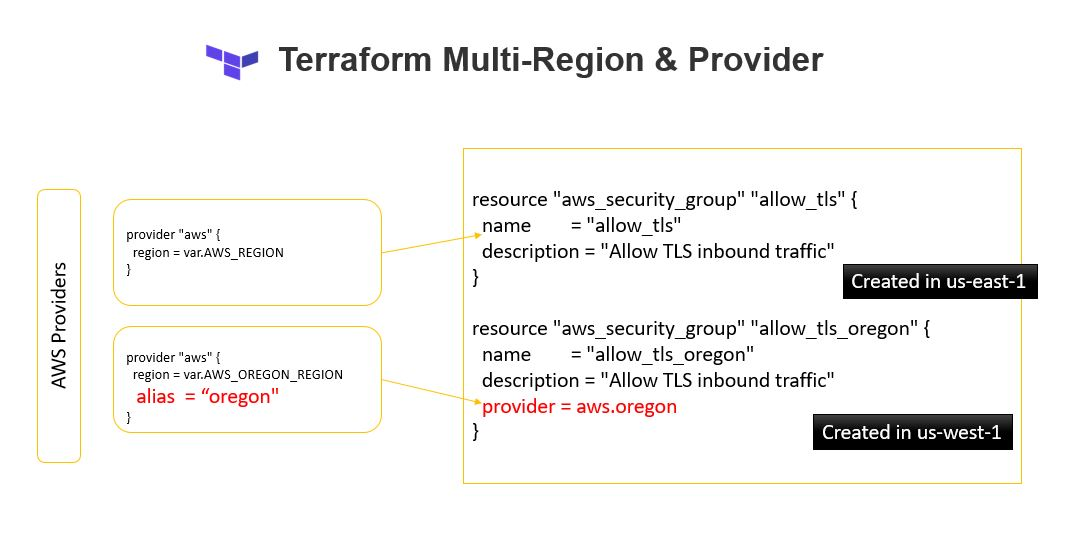
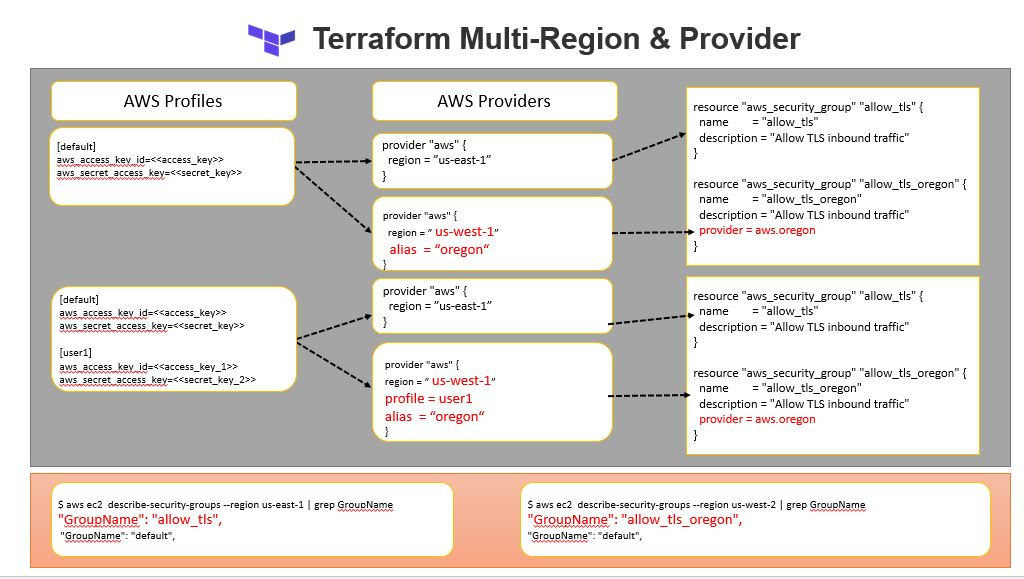
updated multi-region

diff --git a/08-terraform-multi-region-provider/README.md b/08-terraform-multi-region-provider/README.md
@@ -1,1 +1,255 @@
+In this demo we will see how to use multiple aws provider seperated by the regions.  
+
 ![multi-region.JPG](../images/multi-region.JPG)
+
+
+
+this is how provider configuration looks like 
+
+```sh
+    provider "aws" {
+    region = us-east-1
+    }
+
+    provider "aws" {
+    region = us-west-2
+    alias  = "oregon"
+    }
+```
+
+Now we would like to create 2 security groups 
+1. Security Group 1 [allow_tls] in us-east-1
+2. Security Group 2 [allow_tls_oregon] in us-west-2 with **provider = aws.oregon**
+
+```terraform
+
+    resource "aws_security_group" "allow_tls" {
+    name        = "allow_tls"
+    description = "Allow TLS inbound traffic"
+    ingress {
+        description = "TLS from VPC"
+        from_port   = 443
+        to_port     = 443
+        protocol    = "tcp"
+        cidr_blocks = ["0.0.0.0/0"]
+    }
+
+    tags = {
+        Name = "allow_tls"
+    }
+    }
+
+    resource "aws_security_group" "allow_tls_oregon" {
+    name        = "allow_tls_oregon"
+    description = "Allow TLS inbound traffic"
+
+    provider = aws.oregon
+
+    ingress {
+        description = "TLS from VPC"
+        from_port   = 443
+        to_port     = 443
+        protocol    = "tcp"
+        cidr_blocks = ["0.0.0.0/0"]
+    }
+
+    tags = {
+        Name = "allow_tls_oregon"
+    }
+    }
+```
+
+now lets apply this and validate if we have 2 security group created in 2 differnt region.
+
+**terraform plan**
+
+```sh
+
+    $ terraform plan
+
+    An execution plan has been generated and is shown below.
+    Resource actions are indicated with the following symbols:
+    + create
+
+    Terraform will perform the following actions:
+
+    # aws_security_group.allow_tls will be created
+    + resource "aws_security_group" "allow_tls" {
+        + arn                    = (known after apply)
+        + description            = "Allow TLS inbound traffic"
+        + egress                 = (known after apply)
+        + id                     = (known after apply)
+        + ingress                = [
+            + {
+                + cidr_blocks      = [
+                    + "0.0.0.0/0",
+                    ]
+                + description      = "TLS from VPC"
+                + from_port        = 443
+                + ipv6_cidr_blocks = []
+                + prefix_list_ids  = []
+                + protocol         = "tcp"
+                + security_groups  = []
+                + self             = false
+                + to_port          = 443
+                },
+            ]
+        + name                   = "allow_tls"
+        + name_prefix            = (known after apply)
+        + owner_id               = (known after apply)
+        + revoke_rules_on_delete = false
+        + tags                   = {
+            + "Name" = "allow_tls"
+            }
+        + vpc_id                 = (known after apply)
+        }
+
+    # aws_security_group.allow_tls_oregon will be created
+    + resource "aws_security_group" "allow_tls_oregon" {
+        + arn                    = (known after apply)
+        + description            = "Allow TLS inbound traffic"
+        + egress                 = (known after apply)
+        + id                     = (known after apply)
+        + ingress                = [
+            + {
+                + cidr_blocks      = [
+                    + "0.0.0.0/0",
+                    ]
+                + description      = "TLS from VPC"
+                + from_port        = 443
+                + ipv6_cidr_blocks = []
+                + prefix_list_ids  = []
+                + protocol         = "tcp"
+                + security_groups  = []
+                + self             = false
+                + to_port          = 443
+                },
+            ]
+        + name                   = "allow_tls_oregon"
+        + name_prefix            = (known after apply)
+        + owner_id               = (known after apply)
+        + revoke_rules_on_delete = false
+        + tags                   = {
+            + "Name" = "allow_tls_oregon"
+            }
+        + vpc_id                 = (known after apply)
+        }
+
+    Plan: 2 to add, 0 to change, 0 to destroy.
+
+    ------------------------------------------------------------------------
+
+    Note: You didn't specify an "-out" parameter to save this plan, so Terraform
+    can't guarantee that exactly these actions will be performed if
+    "terraform apply" is subsequently run.
+```
+
+
+**terraform apply**
+```sh
+
+    $ terraform apply
+
+    An execution plan has been generated and is shown below.
+    Resource actions are indicated with the following symbols:
+    + create
+
+    Terraform will perform the following actions:
+
+    # aws_security_group.allow_tls will be created
+    + resource "aws_security_group" "allow_tls" {     
+        + arn                    = (known after apply)
+        + description            = "Allow TLS inbound traffic"
+        + egress                 = (known after apply)
+        + id                     = (known after apply)
+        + ingress                = [
+            + {       
+                + cidr_blocks      = [
+                    + "0.0.0.0/0",
+                    ]
+                + description      = "TLS from VPC"
+                + from_port        = 443
+                + ipv6_cidr_blocks = []
+                + prefix_list_ids  = []   
+                + protocol         = "tcp"
+                + security_groups  = []   
+                + self             = false
+                + to_port          = 443  
+                },
+            ]
+        + name                   = "allow_tls"
+        + name_prefix            = (known after apply)
+        + owner_id               = (known after apply)
+        + revoke_rules_on_delete = false
+        + tags                   = {
+            + "Name" = "allow_tls"
+            }
+        + vpc_id                 = (known after apply)
+        }
+
+    # aws_security_group.allow_tls_oregon will be created
+    + resource "aws_security_group" "allow_tls_oregon" {
+        + arn                    = (known after apply)
+        + description            = "Allow TLS inbound traffic"
+        + egress                 = (known after apply)
+        + id                     = (known after apply)
+        + ingress                = [
+            + {
+                + cidr_blocks      = [
+                    + "0.0.0.0/0",
+                    ]
+                + description      = "TLS from VPC"
+                + from_port        = 443
+                + ipv6_cidr_blocks = []
+                + prefix_list_ids  = []
+                + protocol         = "tcp"
+                + security_groups  = []
+                + self             = false
+                + to_port          = 443
+                },
+            ]
+        + name                   = "allow_tls_oregon"
+        + name_prefix            = (known after apply)
+        + owner_id               = (known after apply)
+        + revoke_rules_on_delete = false
+        + tags                   = {
+            + "Name" = "allow_tls_oregon"
+            }
+        + vpc_id                 = (known after apply)
+        }
+
+    Plan: 2 to add, 0 to change, 0 to destroy.
+
+    Do you want to perform these actions?
+    Terraform will perform the actions described above.
+    Only 'yes' will be accepted to approve.
+
+    Enter a value: yes
+
+    aws_security_group.allow_tls: Creating...
+    aws_security_group.allow_tls_oregon: Creating...
+    aws_security_group.allow_tls: Creation complete after 4s [id=sg-0aa2d9427a4533a18]
+    aws_security_group.allow_tls_oregon: Creation complete after 6s [id=sg-0399839dc1655b3e3]
+
+    Apply complete! Resources: 2 added, 0 changed, 0 destroyed.
+```
+
+Now lets see the security groups via aws cli commands 
+
+- security group in **--region us-east-1**
+
+```sh
+        $ aws ec2  describe-security-groups --region us-east-1 | grep GroupName
+            "GroupName": "launch-wizard-1",
+            "GroupName": "allow_tls",
+            "GroupName": "default",  
+```
+
+- security group in **--region us-west-2**
+
+```sh
+        $ aws ec2  describe-security-groups --region us-west-2 | grep GroupName
+            "GroupName": "allow_tls_oregon",
+            "GroupName": "default",
+
+```
